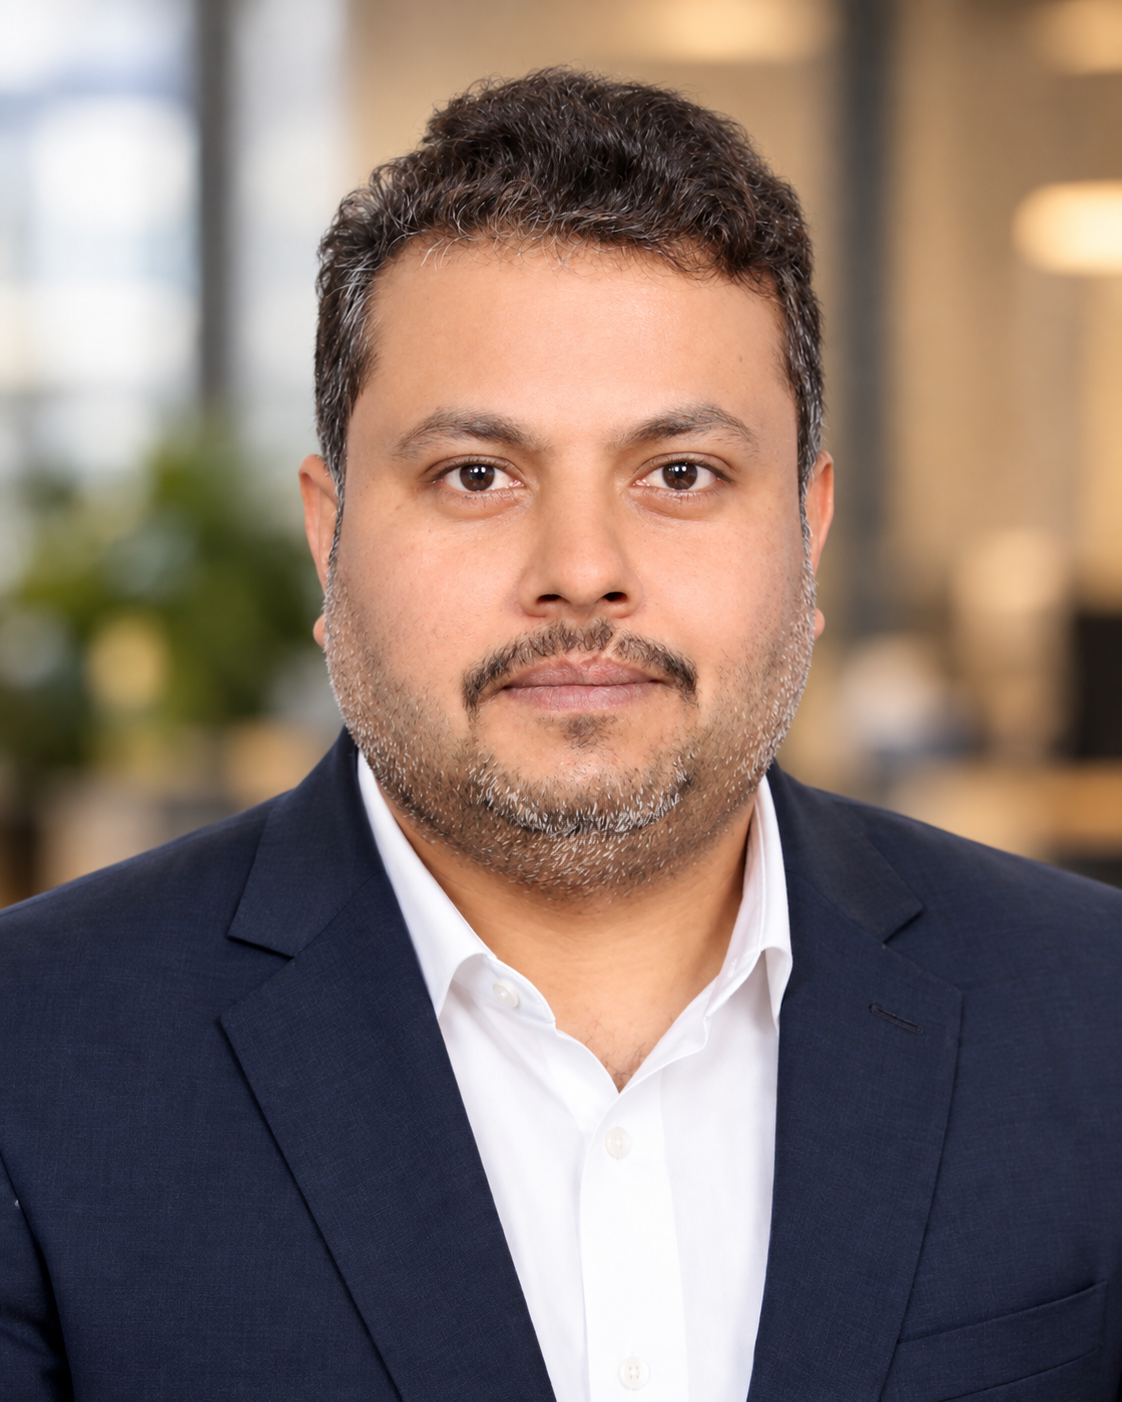
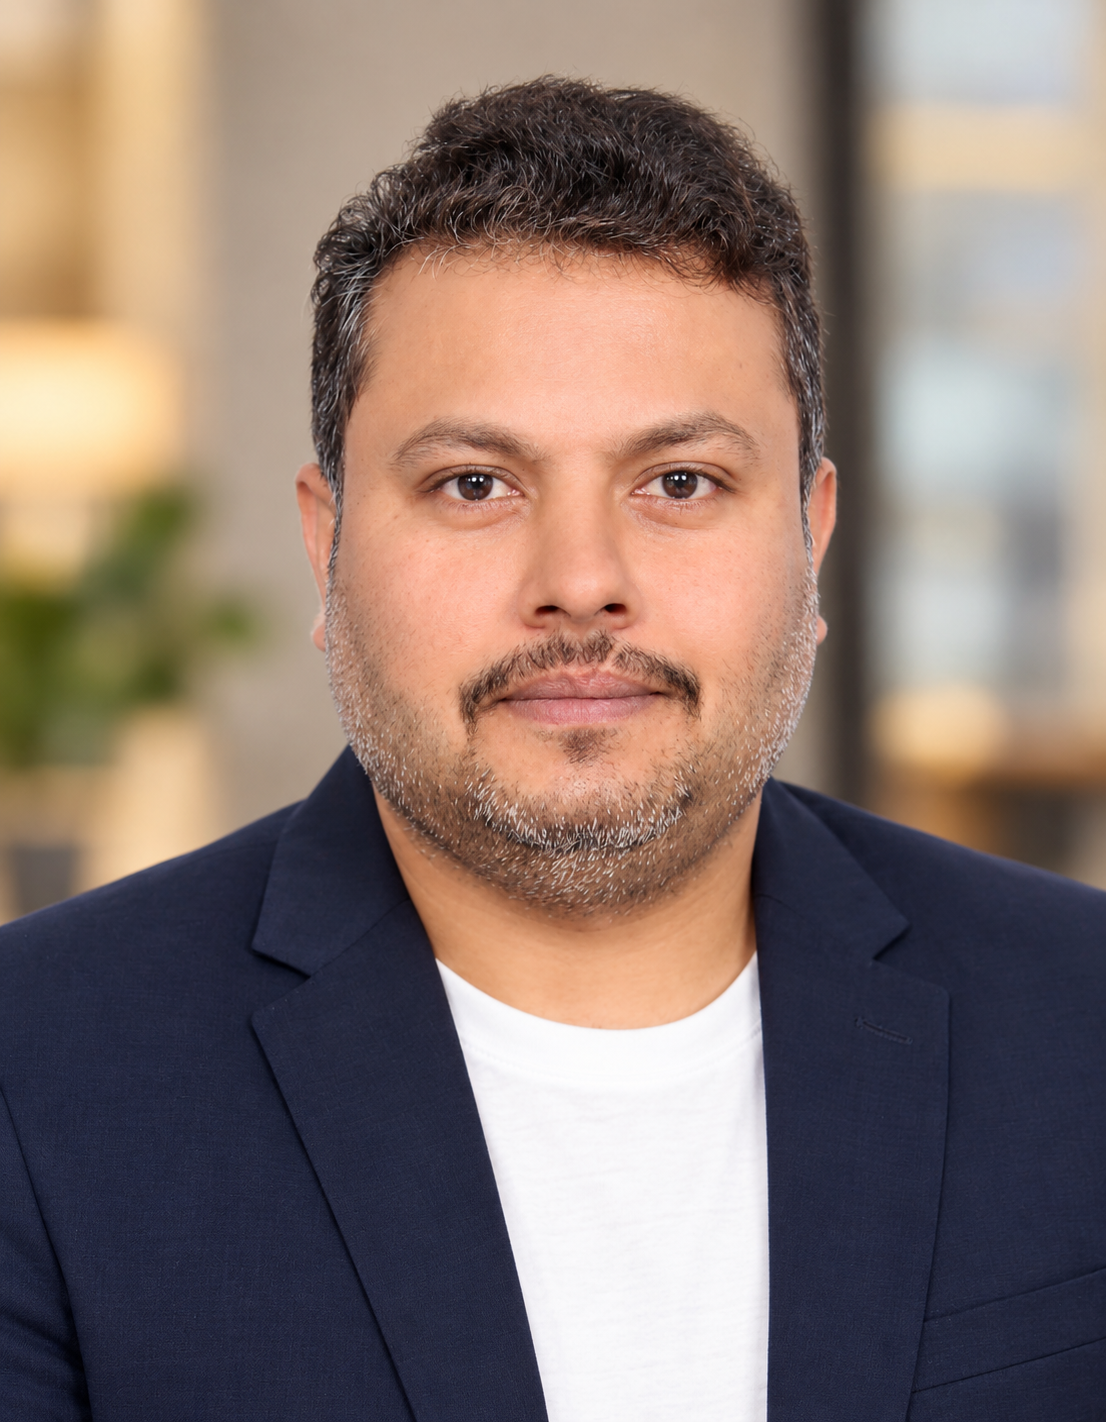
Built site for gh-pages

diff --git a/index.html b/index.html
@@ -171,14 +171,14 @@ ul.task-list li input[type="checkbox"] {
 <div class="quarto-title-meta column-page">
   </div>
 </header> <div id="hero-heading">
-<p>CLIMASTRA – Climate Strategy and Analytics is a new India-based environmental consultancy focused on providing innovative, science-based solutions to today’s evolving environmental and climate challenges. The company brings together expertise in hydrodynamic and hydraulic modeling, climate change assessment, pollution studies, remote sensing, Geographic Information Systems (GIS), and environmental analytics to support sustainable development and informed decision-making.</p>
-<p>At CLIMASTRA, we recognize that environmental challenges are increasingly interconnected. Floods, water-resource constraints, pollution, changing climate conditions, ecosystem pressures, and rapid urban development require integrated approaches that combine scientific understanding with advanced analytical tools. Our work is therefore built around the integration of environmental science, numerical modeling, geospatial technologies, climate analytics, and data-driven approaches.</p>
-<p>Our technical services include hydrodynamic and hydraulic modeling for rivers, drainage systems, floodplains, reservoirs, urban and coastal environments; climate change studies including climate-risk, vulnerability, impact, and adaptation assessments; and pollution and environmental studies focused on understanding environmental processes, pollutant pathways, impacts, and mitigation measures. Through remote sensing and GIS, we provide spatial analysis, environmental mapping, watershed and land-use assessments, monitoring, and decision-support solutions.</p>
-<p>As a young and emerging consultancy, CLIMASTRA is designed to be agile, collaborative, and innovation-oriented. We aim to develop solutions that are technically rigorous while remaining practical, transparent, and responsive to the specific requirements of each project. Our approach emphasizes understanding the problem, selecting the right scientific and analytical methods, and translating complex environmental information into clear and actionable outcomes.</p>
-<p>CLIMASTRA seeks to work with government agencies, infrastructure and development organizations, industries, research institutions, academic organizations, and other stakeholders to address environmental risks and build climate-resilient and sustainable systems.</p>
-<p>Our vision is to establish CLIMASTRA as a trusted provider of climate, water, and environmental intelligence, helping organizations anticipate risks, understand environmental change, and make better decisions for a more resilient and sustainable future.</p>
+<p>CLIMASTRA – Climate Strategy and Analytics is a new Indian environmental consultancy dedicated to bringing innovative and science-based solutions to the modern changing environmental and climate concerns. The organization integrates expertise in hydrodynamic and hydraulic modeling, climate change assessment, pollution research, remote sensing and GIS, and environmental analysis to promote sustainable development and informed decision-making.</p>
+<p>CLIMASTRA is aware that environmental issues are increasingly interlinked. To address floods, water-resource restrictions, pollution, changing climate conditions, ecosystem stresses, and rapid urban growth, integrated approaches are required that combine scientific understanding with advanced analytical techniques. Thus, our work integrates environmental research, numerical modeling, geospatial technology, climate analytics, and data-driven methodologies.</p>
+<p>Our technical services include hydrodynamic and hydraulic modeling of rivers, drainage systems, floodplains, reservoirs, and urban and coastal environments; climate change studies, including climate risk, vulnerability, impact, and adaptation assessments; and pollution and environmental studies focusing on understanding environmental processes, pollutant pathways, impacts, and mitigation measures. We use remote sensing and GIS to deliver spatial analysis, environmental mapping, watershed and land-use assessments, monitoring, and decision support solutions.</p>
+<p>CLIMASTRA is a young and emerging consultancy, set up to be agile, collaborative, and innovation-oriented. We want to build solutions that are technically sound but practical, clear, and sensitive to the individual requirements of each project. Our approach emphasizes understanding the problem, selecting appropriate scientific and analytical methods, and translating complex environmental information into clear, actionable outcomes.</p>
+<p>CLIMASTRA aims to collaborate with government bodies, infrastructure and development organizations, industry, research institutes, academic bodies, and other stakeholders to address environmental hazards and build climate-resilient, sustainable systems.</p>
+<p>Our aim is to become the most trusted provider of climate, water, and environmental intelligence that helps organizations foresee risks, comprehend environmental change, and make smarter decisions for a more resilient and sustainable future.</p>
 <p style="text-align:center;">
-<em>CLIMASTRA – turning climate and environmental data into insight, strategy, and action.</em>
+<em>CLIMASTRA - translating climate and environmental data into insight, strategy, and action.</em>
 </p>
 </div> 
   </div>
